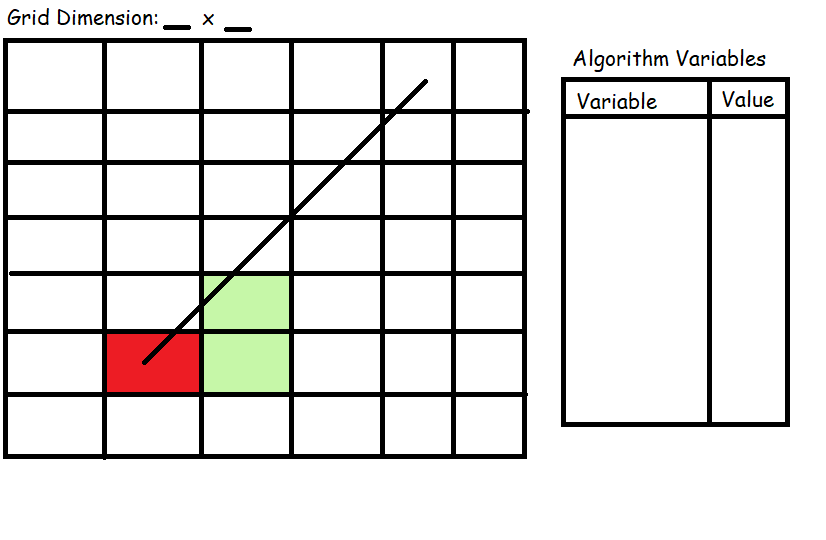
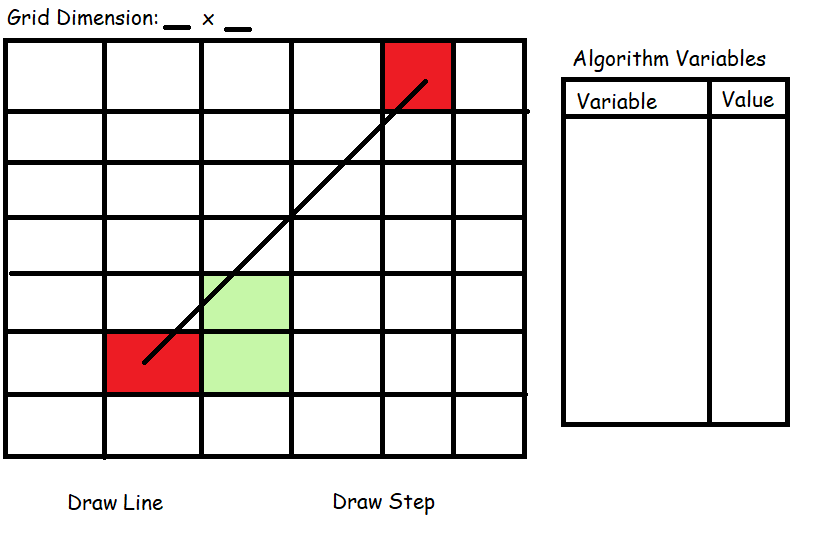
V1

Changed region(s): [[0.454, 0.0593, 0.5448, 0.2074], [0.3935, 0.9185, 0.5448, 0.9481], [0.0605, 0.9185, 0.2119, 0.9481]]

diff --git a/BressAlg.js b/BressAlg.js
@@ -1,0 +1,236 @@
+
+function Square(size, x, y) {
+    this.size = size
+    this.x = x
+    this.y = y
+    this.fill = "#000"
+}
+
+function Grid(size, canvas) {
+    this.size = size
+    this.canvas = canvas
+    this.arr = []
+    this.dim = canvas.width / this.size
+    this.selected = 0
+    this.bressMode = true
+    this.drawingFirstPixel = false
+    this.squareA = null
+    this.squareB = null
+
+    this.x0 = null, this.y0 = null
+    this.x1 = null, this.y1 = null
+    this.x = null, this.y = null, this.d = null
+    this.xi = null, this.xi = null
+
+    for (var i = 0; i < size; i++) {
+        this.arr.push([])
+        for (var j = 0; j < size; j++) {
+            this.arr[i].push(new Square(this.dim, i*this.dim, j*this.dim))
+        }
+    }
+
+    this.draw = function() {
+        canvas.ctx.strokeStyle = "#000"
+        canvas.ctx.fillStyle = "#fff"
+        canvas.ctx.fillRect(0, 0, canvas.width, canvas.height)
+
+        for (var i = 0; i < this.arr.length; i++) {
+            for (var j = 0; j < this.arr[i].length; j++) {
+                let square = this.arr[i][j]
+                canvas.ctx.strokeRect(square.x, square.y, square.size, square.size)
+            }
+        }
+    }
+
+    this.reset = function() {
+        this.draw()
+        this.squareA = null
+        this.squareB = null
+        this.selected = 0
+        this.x = null
+        this.y = null
+        this.d = null
+        this.bressMode = true
+    }
+
+    this.init = function() {
+        let coordA = this.getCoord(this.squareA)
+        let coordB = this.getCoord(this.squareB)
+
+        this.x0 = coordA[0], this.y0 = coordA[1]
+        this.x1 = coordB[0], this.y1 = coordB[1]
+        this.xi = 1, this.yi = 1
+    }
+
+    this.drawSquare = function(square) {
+        canvas.ctx.fillStyle = square.fill
+    //    if (this.bressMode && this.selected < 2) {
+            if (!this.squareA)
+                this.squareA = square
+            else if (!this.squareB)
+                this.squareB = square
+
+            canvas.ctx.fillRect(square.x, square.y, square.size, square.size)
+            this.selected++
+    //    }
+    }
+
+    this.getSquare = function(x, y) {
+        let i = parseInt(x / this.dim)
+        let j = parseInt(y / this.dim)
+        return this.arr[i][j]
+    }
+
+    this.getCoord = function(square) {
+        return [parseInt(square.x / square.size),
+                parseInt((canvas.height - square.size - square.y) / square.size)]
+    }
+
+    this.getSquareFromCoord = function(x, y) {
+        return this.arr[x][size - 1 - y]
+    }
+
+    this.drawGuideline = function() {
+        canvas.ctx.strokeStyle = "#00ff00"
+        let off = this.squareA.size/2
+        canvas.ctx.beginPath()
+        canvas.ctx.moveTo(this.squareA.x + off, this.squareA.y + off)
+        canvas.ctx.lineTo(this.squareB.x + off, this.squareB.y + off)
+        canvas.ctx.stroke()
+    }
+
+    this.drawDots = function(square) {
+        let off = this.squareA.size
+        this.canvas.ctx.fillStyle = "#ff0000"
+        this.canvas.ctx.beginPath()
+        this.canvas.ctx.arc(square.x + off, square.y, off/4, 0, 2 * Math.PI)
+        this.canvas.ctx.arc(square.x + off, square.y + off/2, off/4, 0, 2 * Math.PI)
+        this.canvas.ctx.fill()
+    }
+
+
+    this.drawLine = function(bressMode) {
+        this.init()
+        this.drawingFirstPixel = this.bressMode == true && bressMode == false
+        this.bressMode = bressMode
+
+        let x0 = this.x0, y0 = this.y0,
+            x1 = this.x1, y1 = this.y1
+
+        if (Math.abs(y1 - y0) < Math.abs(x1 - x0)) {
+            if (x0 > x1)
+                this.drawLineLow(x1, y1, x0, y0)
+            else
+                this.drawLineLow(x0, y0, x1, y1)
+        }
+        else {
+            if (y0 > y1)
+                this.drawLineHigh(x1, y1, x0, y0)
+            else
+                this.drawLineHigh(x0, y0, x1, y1)
+        }
+
+        if (!this.bressMode)
+            this.drawGuideline()
+    }
+
+    this.drawLineLow = function(x0, y0, x1, y1) {
+        let dx = x1 - x0
+        let dy = y1 - y0
+
+        dxEl.innerHTML = dx
+        dyEl.innerHTML = dy
+
+        if (dy < 0) {
+            this.yi *= -1
+            dy *= -1
+        }
+
+        let d = 2 * dy - dx
+        let y = y0
+
+        if (!this.bressMode) {
+            if (this.drawingFirstPixel) {
+                this.d = 2 * dy - dx
+                this.x = x0
+                this.y = y0
+            }
+
+            if (this.x < x1) {
+                let square = this.getSquareFromCoord(this.x, this.y)
+                this.drawSquare(square)
+                if (this.yi > 0)
+                    this.drawDots(square)
+                updateXYD(this.x, this.y, this.d)
+
+                if (this.d > 0) {
+                    this.y += this.yi
+                    this.d -= (2 * dx)
+                }
+                this.d += (2 * dy)
+            }
+            this.x++
+            return
+        }
+
+        for (var x = x0; x < x1; x++) {
+            let square = this.getSquareFromCoord(x, y)
+            this.drawSquare(square)
+
+            if (d > 0) {
+                y += this.yi
+                d -= (2 * dx)
+            }
+            d += (2 * dy)
+        }
+    }
+
+    this.drawLineHigh = function(x0, y0, x1, y1) {
+        let dx = x1 - x0
+        let dy = y1 - y0
+
+        dxEl.innerHTML = dx
+        dyEl.innerHTML = dy
+
+        if (dx < 0) {
+            this.xi *= -1
+            dx *= -1
+        }
+
+        let d = 2 * dx - dy
+        let x = x0
+
+        if (!this.bressMode) {
+            if (this.drawingFirstPixel) {
+                this.d = 2 * dx - dy
+                this.x = x0
+                this.y = y0
+            }
+
+            if (this.y < y1) {
+                let square = this.getSquareFromCoord(this.x, this.y)
+                this.drawSquare(square)
+                updateXYD(this.x, this.y, this.d)
+
+                if (this.d > 0) {
+                    this.x += this.xi
+                    this.d -= (2 * dy)
+                }
+                this.d += (2 * dx)
+            }
+            this.y++
+            return
+        }
+
+        for (var y = y0; y < y1; y++) {
+            let square = this.getSquareFromCoord(x, y)
+            this.drawSquare(square)
+
+            if (d > 0) {
+                x += this.xi
+                d -= (2 * dy)
+            }
+            d += (2 * dx)
+        }
+    }
+}

diff --git a/main.js b/main.js
@@ -1,0 +1,73 @@
+let point1El = document.getElementById('point1')
+let point2El = document.getElementById('point2')
+let dxEl = document.getElementById('dx')
+let dyEl = document.getElementById('dy')
+let xEl = document.getElementById('x')
+let yEl = document.getElementById('y')
+let dEl = document.getElementById('d')
+
+function updateXYD(x, y, d) {
+    xEl.innerHTML = x
+    yEl.innerHTML = y
+    dEl.innerHTML = d
+}
+
+function Canvas(pWidth, pHeight, pId) {
+    this.id = pId
+    this.tag = document.createElement("canvas")
+    this.ctx = this.tag.getContext("2d")
+    this.width = pWidth
+    this.height = pHeight
+
+    this.tag.width = this.width
+    this.tag.height = this.height
+
+    this.ctx.lineWidth = 1
+
+    let parTag = document.getElementById(this.id)
+    if (parTag)
+        parTag.appendChild(this.tag)
+    else
+        document.body.appendChild(this.tag)
+}
+
+const canvas = new Canvas(500, 500, 'canvas')
+let grid = new Grid(50, canvas)
+grid.draw()
+
+function setGrid() {
+    let dim = document.getElementById('grid-dim').value
+    grid = new Grid(dim, canvas)
+    grid.draw()
+}
+
+function inSquare(square, x, y) {
+    if (x > square.x && x < (square.x + square.size) &&
+        y > square.y && y < (square.y + square.size))
+        return true
+    return false
+}
+
+function updatePoints() {
+    if (grid.selected == 1) {
+        let coord = grid.getCoord(grid.squareA)
+        let info = "(" + coord[0] + ", " + coord[1] + ")"
+        point1El.innerHTML = info
+    }
+
+    if  (grid.selected == 2) {
+        let coord = grid.getCoord(grid.squareB)
+        let info = "(" + coord[0] + ", " + coord[1] + ")"
+        point2El.innerHTML = info
+    }
+}
+
+canvas.tag.addEventListener('mousedown', (e) => {
+    let canvasRect = canvas.tag.getBoundingClientRect()
+    let mouseX = e.x - canvasRect.left
+    let mouseY = e.y - canvasRect.top
+
+    let square = grid.getSquare(mouseX, mouseY)
+    grid.drawSquare(square)
+    updatePoints()
+})

diff --git a/index.html b/index.html
@@ -1,0 +1,28 @@
+<!DOCTYPE html>
+<html lang="en">
+    <head>
+        <meta charset="utf-8">
+        <script src="BressAlg.js"></script>
+        <title></title>
+    </head>
+
+    <body>
+        Grid Dimension: <input id="grid-dim" type="text" maxlength="3" value="50">
+        <input type="button" value="Set" onclick="setGrid()"><br>
+        <div id="canvas"></div>
+        <input type="button" value="Draw Pixel" onclick="grid.drawLine(false)">
+        <input type="button" value="Draw Line" onclick="grid.drawLine(true)">
+        <input type="button" value="Reset" onclick="grid.reset()"><br>
+        <div id="info">
+            Point 1: <span id="point1"></span><br>
+            Point 2: <span id="point2"></span><br>
+            dx: <span id="dx"></span><br>
+            dy: <span id="dy"></span><br>
+            x: <span id="x"></span><br>
+            y: <span id="y"></span><br>
+            d: <span id="d"></span><br>
+        </div>
+    </body>
+
+    <script src="main.js"></script>
+</html>
